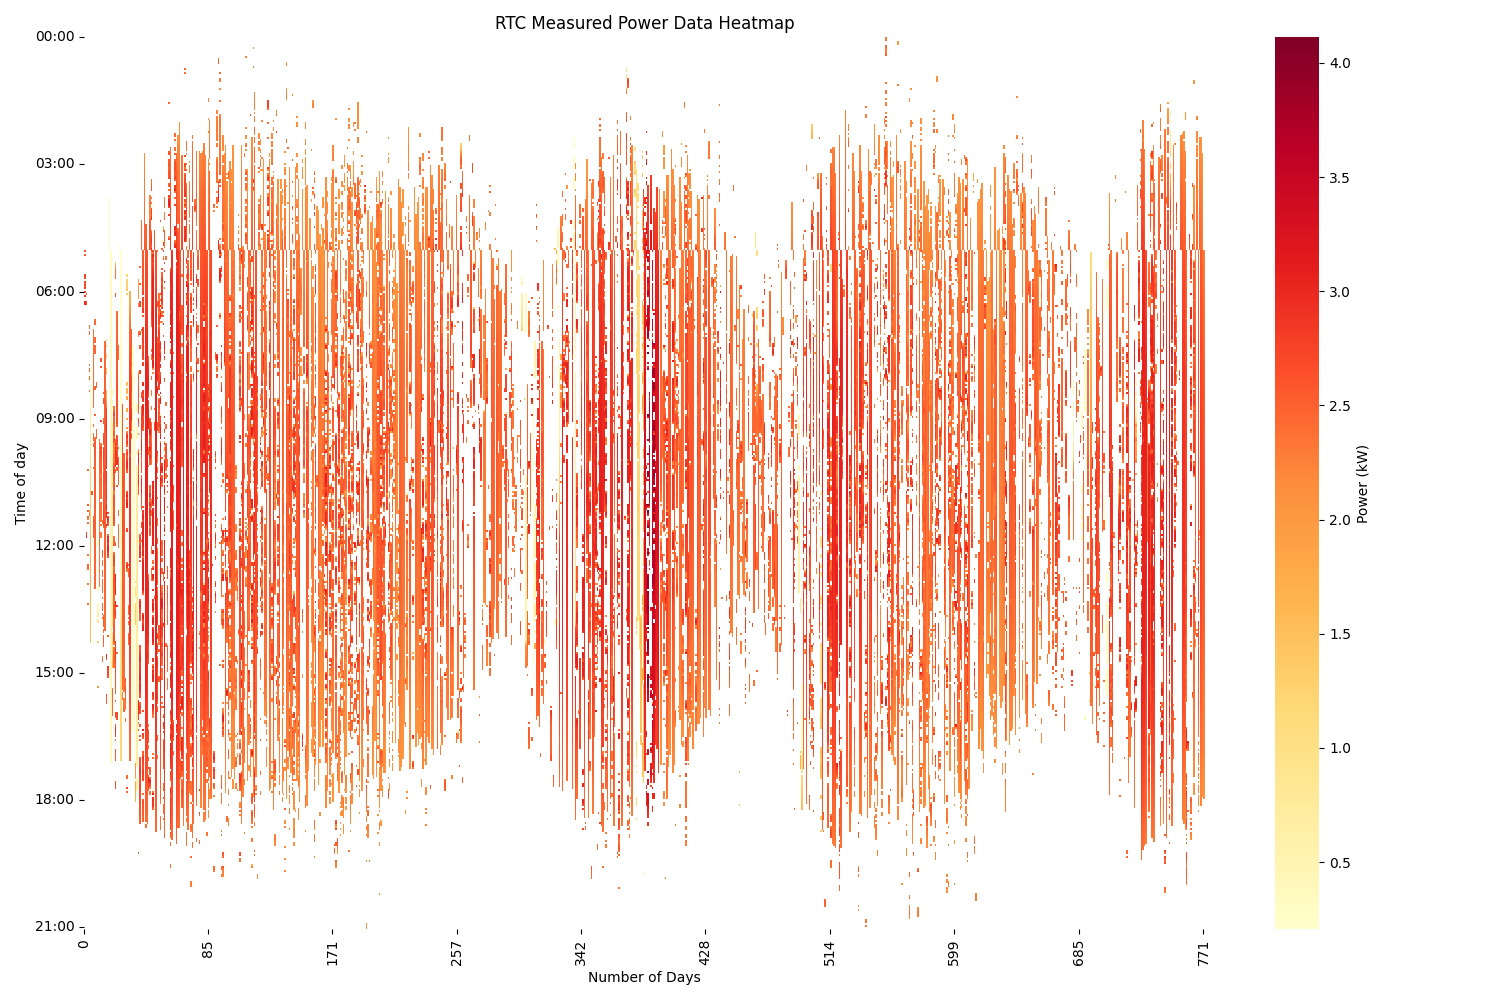
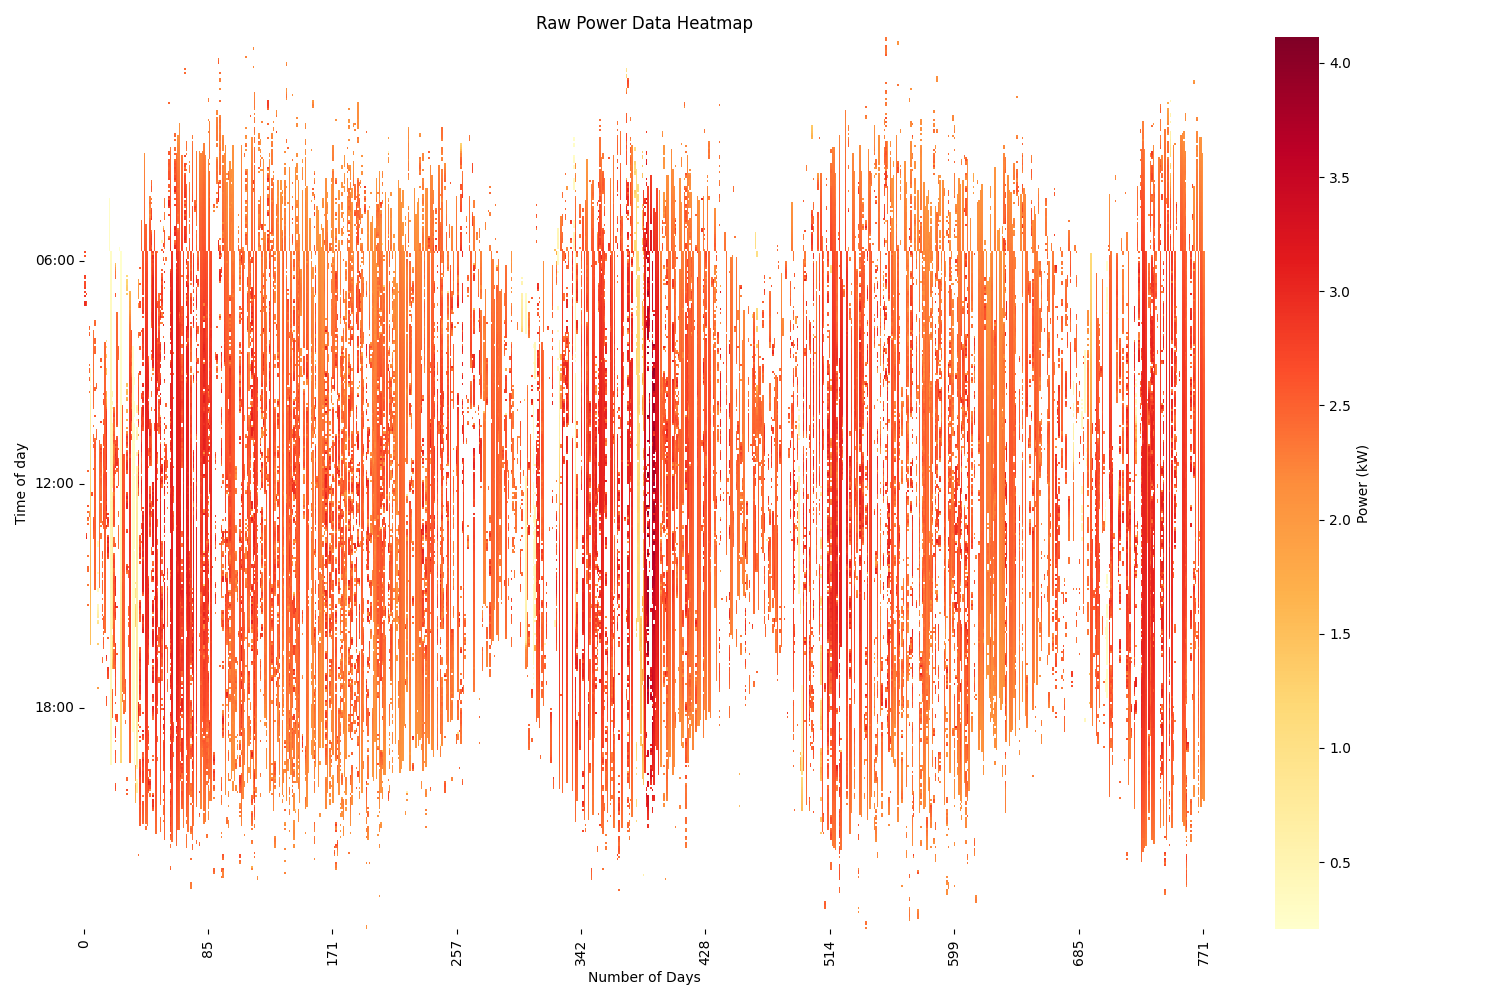
Edited heatmap function

diff --git a/pvplr/feature_correction.py b/pvplr/feature_correction.py
@@ -274,11 +274,12 @@ class PLRProcessor:
         ax.set_xticklabels(x_ticks)
         
         # Modify y-axis (Time of day)
-        time_ticks = pd.date_range("00:00", "23:59", freq="3h").time  # Every 3 hours
-        y_ticks = np.linspace(0, pivot_data.shape[0]-1, len(time_ticks))
+        total_rows = pivot_data.shape[0]
+        y_ticks = [total_rows * i // 4 for i in range(1, 4)]  # 3 ticks at 1/4, 2/4, and 3/4 of the axis
         ax.set_yticks(y_ticks)
-        ax.set_yticklabels([t.strftime('%H:%M') for t in time_ticks])
-
+        ax.set_yticklabels(['06:00', '12:00', '18:00'])
+        ax.set_ylim(total_rows-1, 0)
+        
         plt.title('Raw Power Data Heatmap')
         plt.xlabel('Number of Days')
         plt.ylabel('Time of day')
